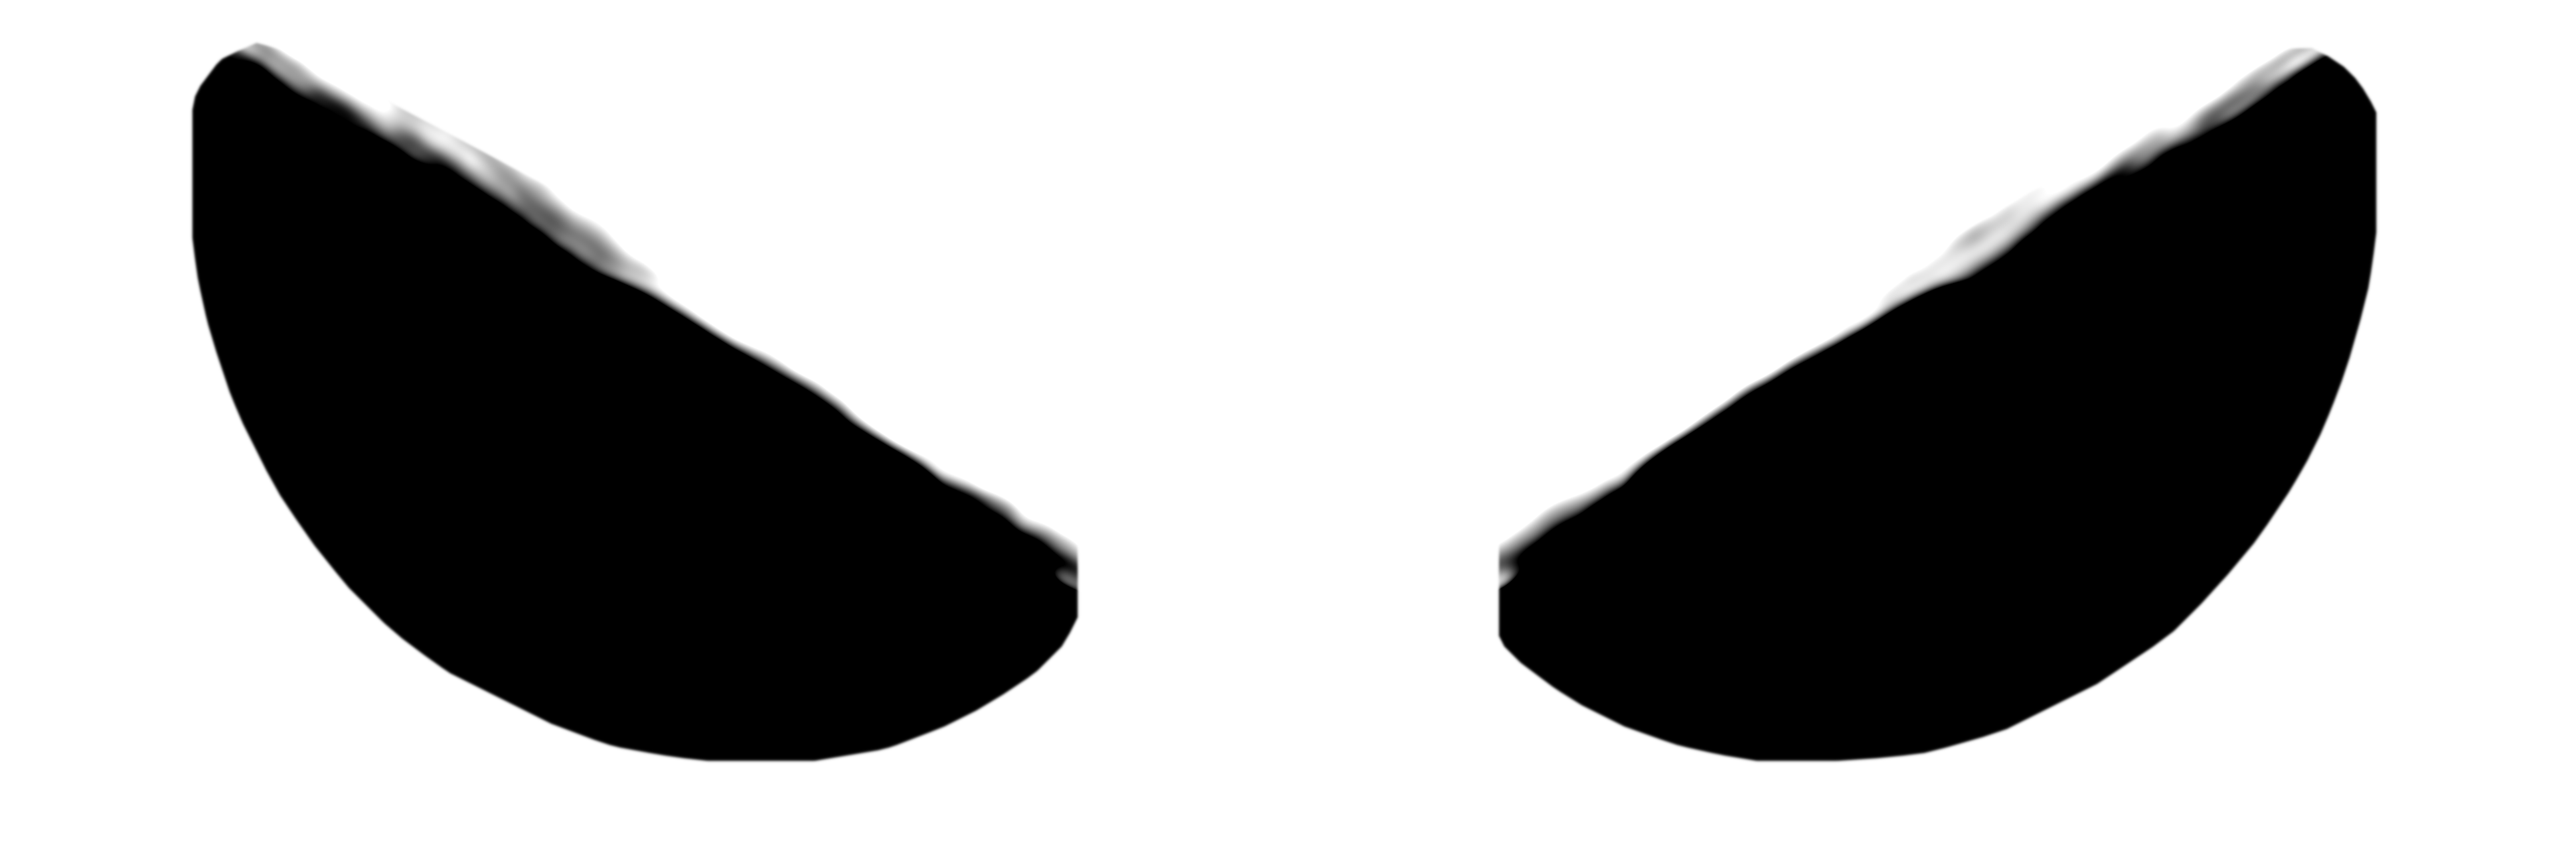
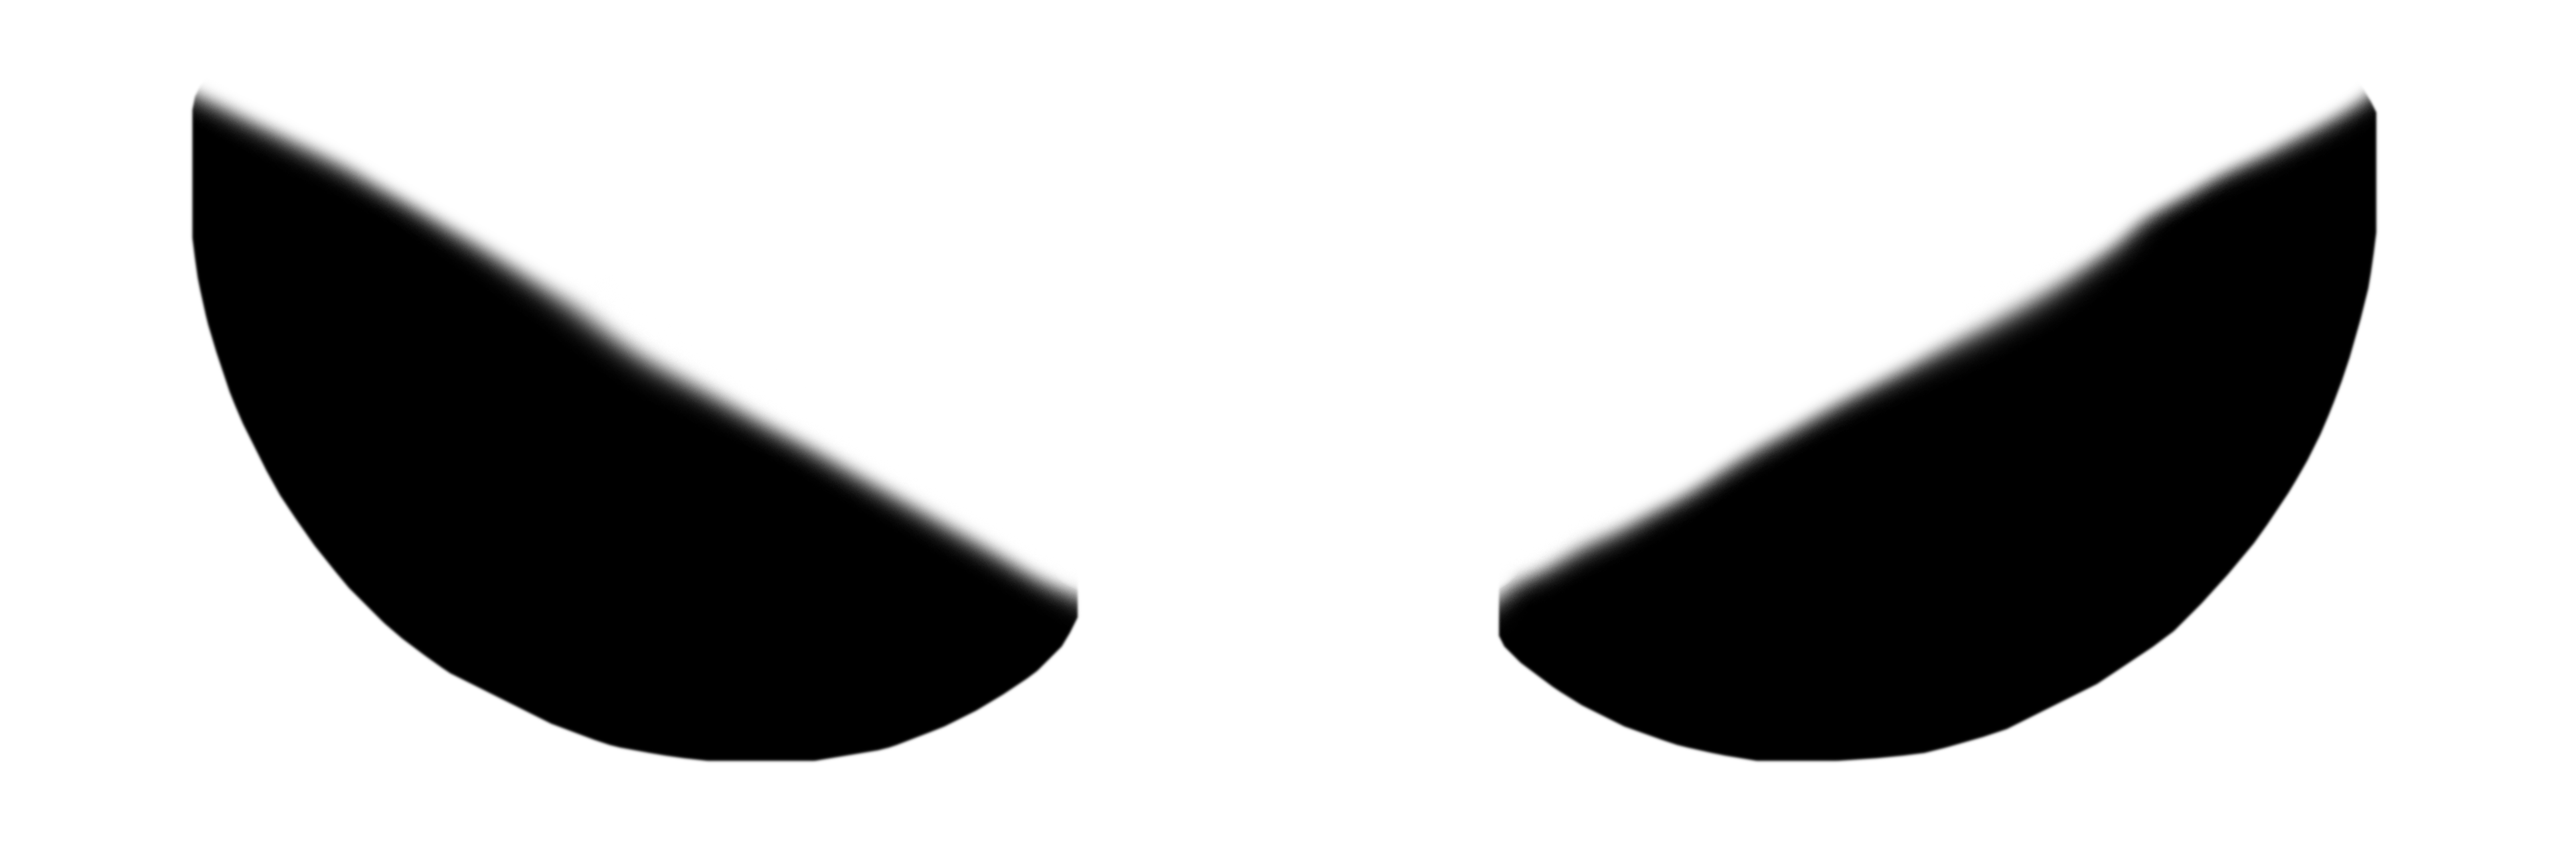
Website intro: the owner's eye-opening mask (pupils are cut cleanly at the lid line); brow map rebuilt from it

Changed region(s): [[0.5613, 0.0625, 0.9356, 0.7188], [0.0624, 0.0312, 0.4366, 0.7188]]

diff --git a/website/index.html b/website/index.html
@@ -3734,7 +3734,7 @@
       base.onload = mask.onload = brow.onload = onload;
       /* two sizes of the same picture (AI-upscaled from the original): the 4K one only for big or sharp screens */
       var big = window.innerWidth * (window.devicePixelRatio || 1) > 1500;
-      base.src = big ? 'assets/intro-eyes-base-4k.webp' : 'assets/intro-eyes-base-2k.webp'; mask.src = 'assets/intro-eyes-mask.webp'; brow.src = 'assets/intro-eyes-brow.webp?v=5';
+      base.src = big ? 'assets/intro-eyes-base-4k.webp' : 'assets/intro-eyes-base-2k.webp'; mask.src = 'assets/intro-eyes-mask.webp?v=2'; brow.src = 'assets/intro-eyes-brow.webp?v=6';
       window.addEventListener('scroll', request, { passive: true });
       window.addEventListener('resize', function () { size(); last = null; request(); });
       skip.addEventListener('click', function () { finish(true); });
